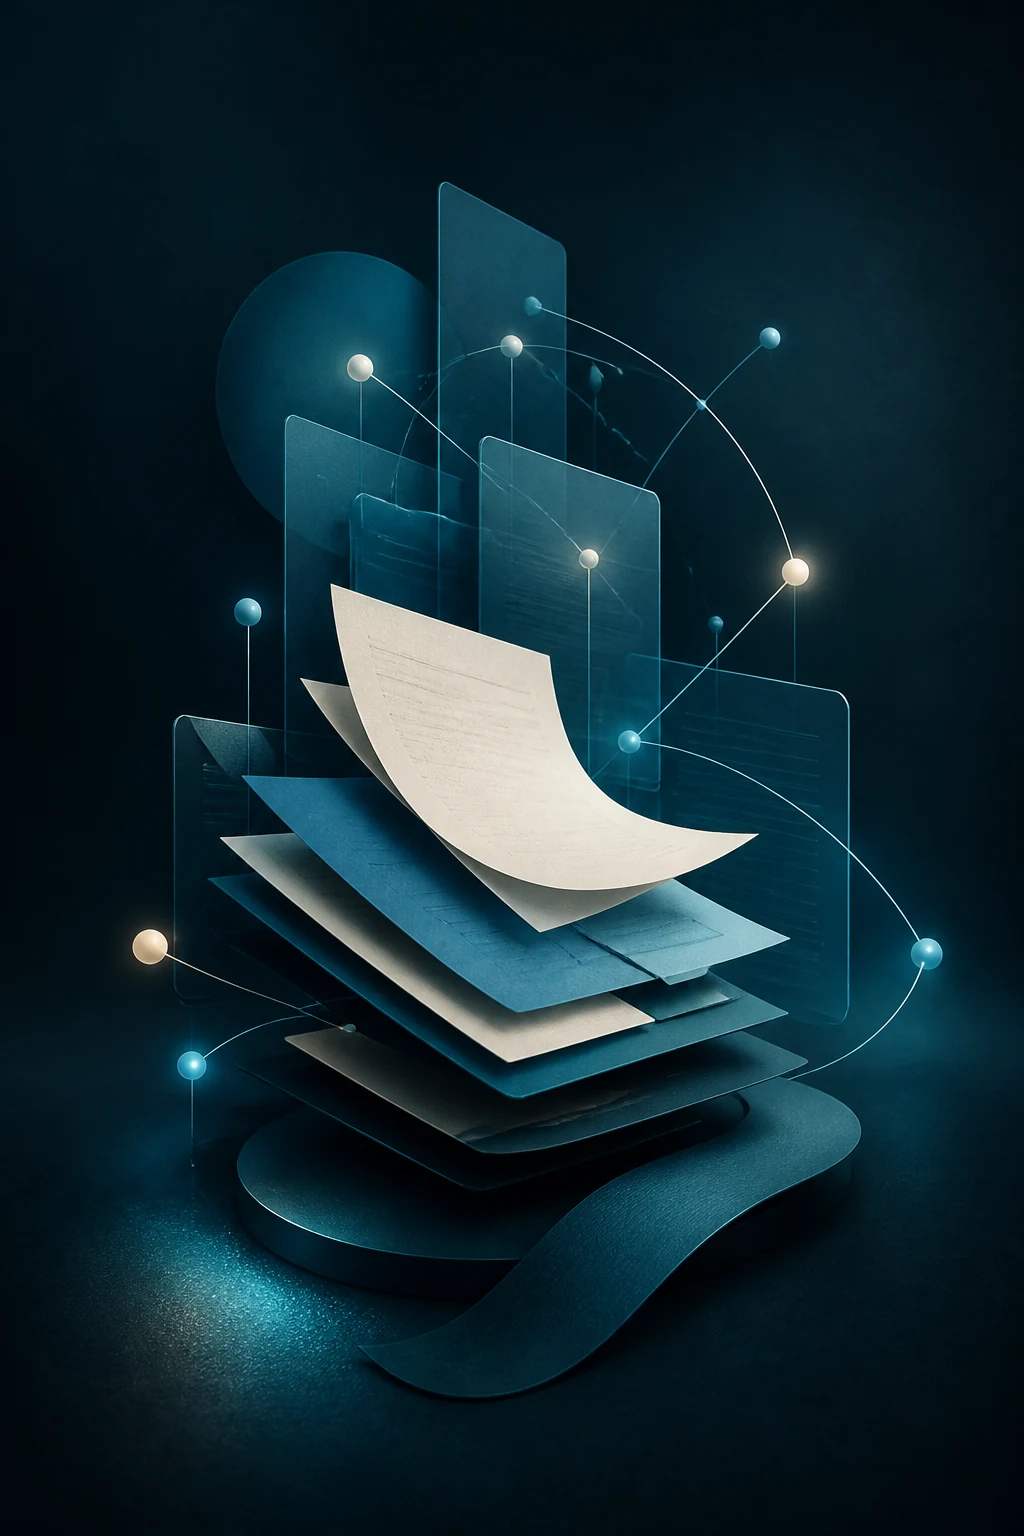
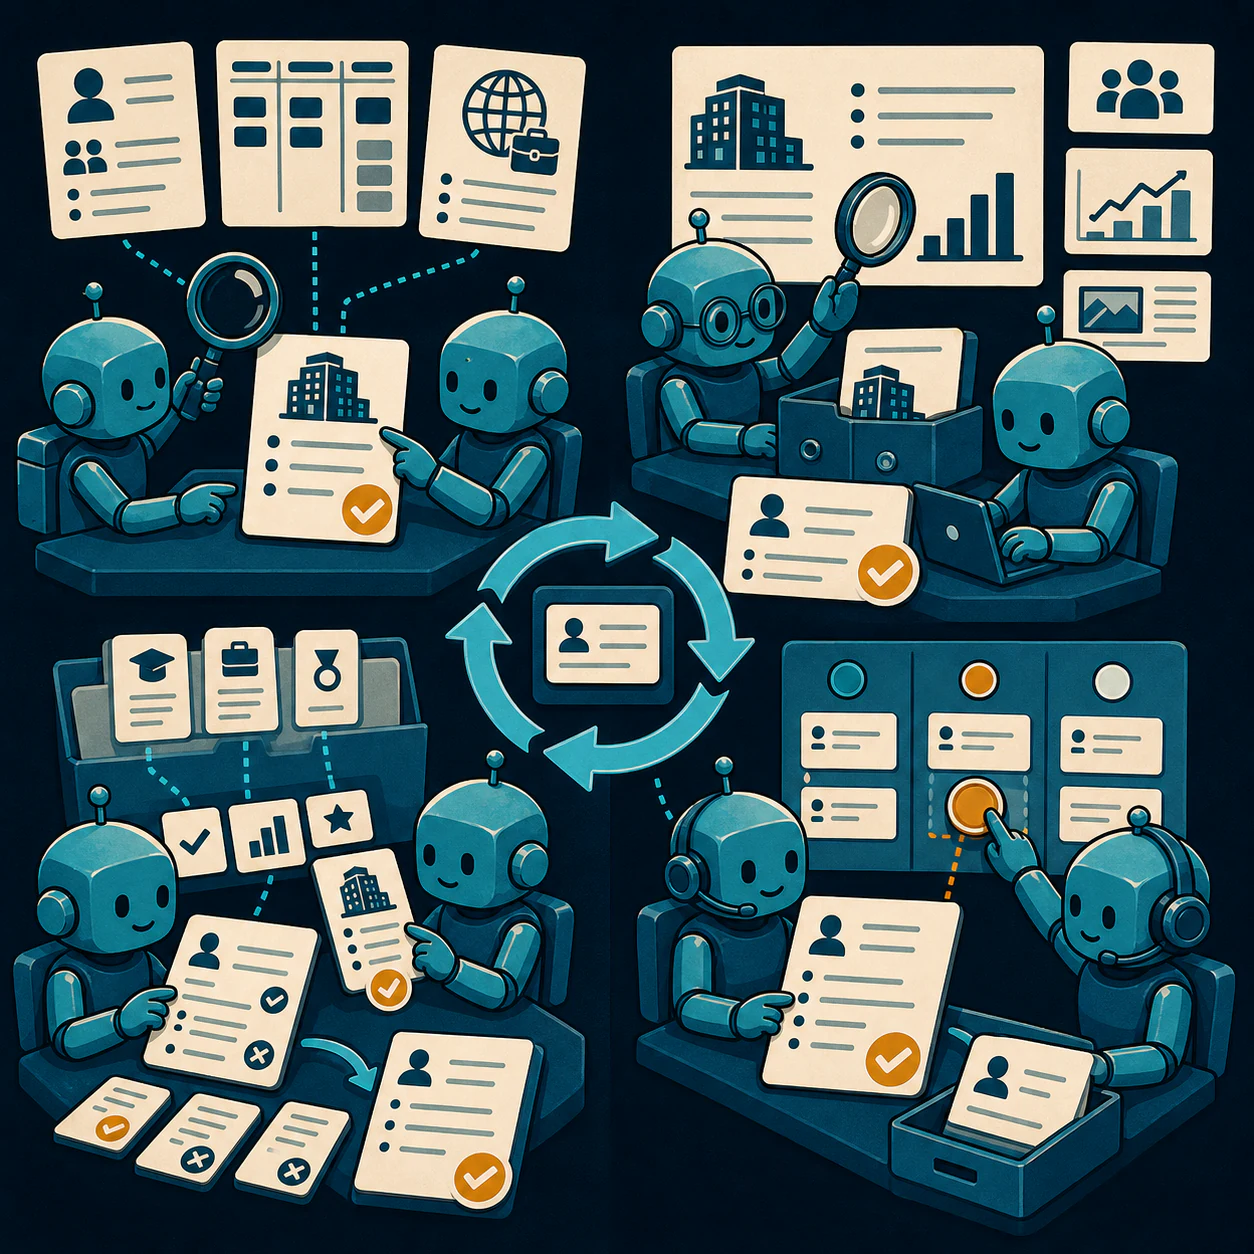
fix: refine the auth evidence layout

diff --git a/web/src/features/auth/AuthLayout.tsx b/web/src/features/auth/AuthLayout.tsx
@@ -27,15 +27,7 @@ export function AuthLayout({
         aria-hidden="true"
         className="auth-brand-panel sticky top-0 hidden h-svh w-[54%] overflow-hidden p-10 text-white lg:flex lg:flex-col xl:p-12 2xl:w-[57%] 2xl:p-14"
       >
-        <img
-          className="auth-brand-art absolute inset-0 size-full object-cover object-center"
-          src={authEvidenceVisual}
-          alt=""
-        />
-        <div className="absolute inset-0 bg-[linear-gradient(180deg,rgba(2,20,27,0.72)_0%,rgba(2,20,27,0.08)_32%,rgba(2,20,27,0.2)_58%,rgba(2,20,27,0.92)_100%)]" />
-        <div className="absolute inset-0 bg-[radial-gradient(circle_at_18%_14%,rgba(91,216,231,0.2),transparent_34%)]" />
-
-        <div className="relative flex items-center gap-3">
+        <div className="relative z-10 flex shrink-0 items-center gap-3">
           <div className="flex size-10 items-center justify-center rounded-xl border border-white/15 bg-white/10 shadow-[0_12px_34px_-18px_rgba(91,216,231,0.85)] backdrop-blur-md">
             <Sparkles className="size-4.5" aria-hidden="true" />
           </div>
@@ -47,17 +39,31 @@ export function AuthLayout({
           </div>
         </div>
 
-        <div className="relative mt-auto max-w-xl rounded-2xl border border-white/12 bg-[#061d26]/58 p-6 shadow-[0_24px_80px_-32px_rgba(0,0,0,0.72)] backdrop-blur-xl xl:p-7">
+        <div
+          data-slot="auth-brand-visual"
+          className="auth-brand-visual relative mt-3 flex min-h-0 flex-1 items-center justify-center overflow-hidden"
+        >
+          <img
+            className="auth-brand-art h-full w-auto max-w-full object-contain object-center"
+            src={authEvidenceVisual}
+            alt=""
+          />
+        </div>
+
+        <div
+          data-slot="auth-brand-copy"
+          className="auth-brand-copy relative z-10 mt-3 w-full max-w-xl shrink-0 rounded-2xl border border-white/12 bg-[#061d26]/82 p-6 shadow-[0_24px_80px_-32px_rgba(0,0,0,0.72)] xl:p-7"
+        >
           <p className="text-[0.68rem] font-semibold uppercase tracking-[0.24em] text-cyan-200/75">
             {t("auth.evidenceLedOperations")}
           </p>
-          <p className="mt-3 text-3xl font-semibold leading-[1.08] tracking-[-0.035em] xl:text-[2.35rem]">
+          <p className="auth-brand-copy-heading mt-3 text-3xl font-semibold leading-[1.08] tracking-[-0.035em] xl:text-[2.35rem]">
             {t("auth.brandPromise")}
           </p>
-          <p className="mt-4 max-w-lg text-sm leading-relaxed text-white/68">
+          <p className="auth-brand-copy-summary mt-4 max-w-lg text-sm leading-relaxed text-white/68">
             {t("auth.brandSummary")}
           </p>
-          <div className="mt-6 flex items-center gap-2 text-[0.7rem] font-medium text-white/72">
+          <div className="auth-brand-copy-flow mt-6 flex items-center gap-2 text-[0.7rem] font-medium text-white/72">
             <span className="rounded-full border border-white/12 bg-white/7 px-3 py-1.5">{t("auth.discover")}</span>
             <span className="h-px w-5 bg-white/18" />
             <span className="rounded-full border border-white/12 bg-white/7 px-3 py-1.5">{t("auth.tailor")}</span>

diff --git a/web/src/index.css b/web/src/index.css
@@ -116,10 +116,52 @@
 
 .auth-brand-panel {
   background: #061d26;
+  background-image:
+    radial-gradient(circle at 52% 32%, rgba(91, 216, 231, 0.13), transparent 42%),
+    linear-gradient(180deg, #061d26 0%, #041820 100%);
+}
+
+.auth-brand-visual {
+  isolation: isolate;
+}
+
+.auth-brand-visual::after {
+  position: absolute;
+  inset: 0;
+  z-index: 1;
+  background: linear-gradient(
+    180deg,
+    rgba(6, 29, 38, 0.08) 0%,
+    transparent 14%,
+    transparent 82%,
+    rgba(6, 29, 38, 0.28) 100%
+  );
+  content: "";
+  pointer-events: none;
 }
 
 .auth-brand-art {
   filter: saturate(0.88) contrast(1.03);
+}
+
+@media (min-width: 64rem) and (max-height: 51.25rem) {
+  .auth-brand-panel {
+    padding: 1.5rem;
+  }
+
+  .auth-brand-copy {
+    padding: 1rem 1.125rem;
+  }
+
+  .auth-brand-copy-heading {
+    margin-top: 0.5rem;
+    font-size: 1.6rem;
+  }
+
+  .auth-brand-copy-summary,
+  .auth-brand-copy-flow {
+    margin-top: 0.75rem;
+  }
 }
 
 .auth-surface {

diff --git a/web/src/features/auth/AuthLayout.test.tsx b/web/src/features/auth/AuthLayout.test.tsx
@@ -19,6 +19,13 @@ describe("AuthLayout", () => {
     expect(
       container.querySelector("[data-slot='auth-brand'] img")?.getAttribute("src"),
     ).toContain("auth-evidence-command-center");
+    const visual = container.querySelector("[data-slot='auth-brand-visual']");
+    const copy = container.querySelector("[data-slot='auth-brand-copy']");
+    expect(visual).toBeInTheDocument();
+    expect(copy).toBeInTheDocument();
+    expect(visual?.nextElementSibling).toBe(copy);
+    expect(visual?.querySelector("img")).toHaveClass("object-contain");
+    expect(copy?.querySelector("img")).toBeNull();
     expect(screen.getByText("Secure workspace")).toBeInTheDocument();
   });
 });
